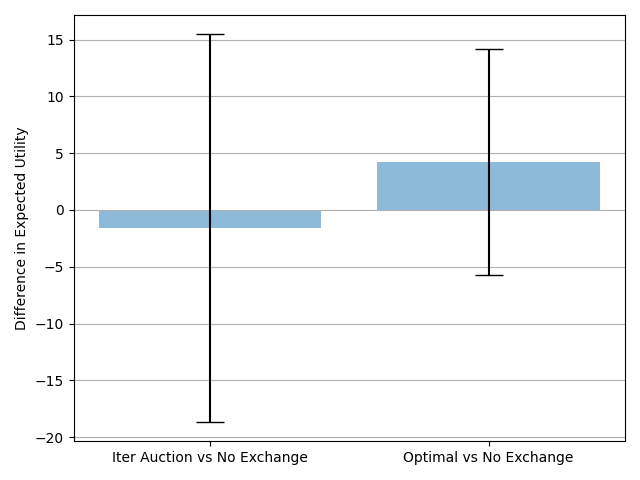
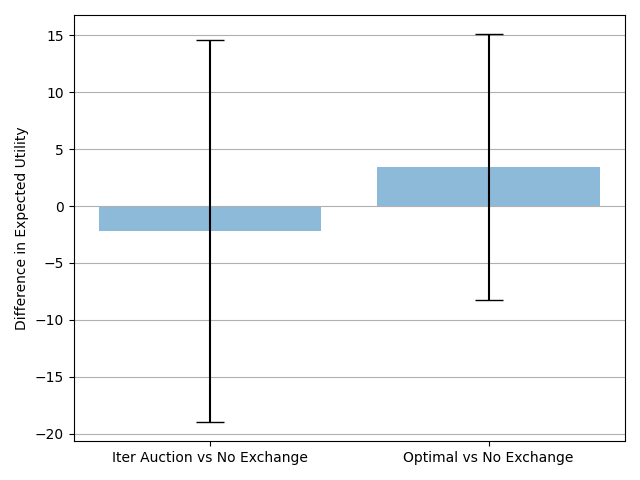
more images for sim

diff --git a/thesis/run_sim.py b/thesis/run_sim.py
@@ -6,13 +6,13 @@ from iterative_auction_expectedu import IterativeAuction
 from iterative_auction_drone import IterativeAuctionDrone
 from optimal_baseline import OptimalBaseline
 from collections import defaultdict, Counter
-from scipy import optimize
 import numpy as np
 import time
 from collections import defaultdict
 import random
 import matplotlib.pyplot as plt
 from statistics import mean, stdev
+import statistics
 import pandas as pd 
 import seaborn as sns 
 
@@ -160,6 +160,10 @@ class Simulation:
 
 
 def runSims(assignonly=False):
+	iter_auc_u = []
+	opt_u = []
+	nosell_u = []
+
 	iter_auc_costs = []
 	opt_costs = []
 	nosell_costs = []
@@ -167,60 +171,79 @@ def runSims(assignonly=False):
 	diff_opt_nosell = []
 	diff_iter_nosell = []
 
+	costdiff_iter_nosell = []
+	costdiff_opt_nosell = []
+
 	iter_total_success = []
 	iter_total_fail = []
-	failcomp_iter_nosell = []
+	opt_total_success = []
+	opt_total_fail = []
 	nosell_total_success = []
 	nosell_total_fail = []
+
 	iter_help_costs = []
+
+	successdiff_iter_nosell = []
+	successdiff_opt_nosell = []
+	faildiff_iter_nosell = []
+	faildiff_opt_nosell = []
 	
 	i = 0
-	while i < 5:
+	while i < 100:
 		print(i)
 		env = EnvGenerator(5,5,4,0.3,0.3,0.4,25)
 		env.getEnv()
 		iter_auc = IterativeAuction(env) 
-		sim = Simulation(iter_auc)
-		revealed_grid, cost_it, total_u_it, total_fail_it = sim.move_until_fail()
-		if assignonly and not sim.assignments: #if we want to compare envs with assignments but get none move to next
+		sim1 = Simulation(iter_auc)
+		revealed_grid, cost_it, total_u_it, total_fail_it = sim1.move_until_fail()
+		if assignonly and not sim1.assignments: #if we want to compare envs with assignments but get none move to next
 			continue
 		else:
 			i += 1
 
 		if revealed_grid is not None:
+			iter_auc_u.append(total_u_it)
 			iter_auc_costs.append(cost_it)
 			sellers = iter_auc.sellers
 			buyers = iter_auc.buyers
-			iter_help_costs.append(sim.help_cost)
-			iter_total_success.append(sim.total_success)
-			iter_total_fail.append(sim.total_fail)
+			iter_help_costs.append(sim1.help_cost)
+			iter_total_success.append(sim1.total_success)
+			iter_total_fail.append(sim1.total_fail)
 
 			# print("Beginning Optimal")
 			opt_assign = OptimalBaseline(env, sellers, buyers) 
-			sim = Simulation(opt_assign, revealed_grid)
-			_, cost_opt, total_u_opt, total_fail_opt = sim.move_until_fail()
+			sim2 = Simulation(opt_assign, revealed_grid)
+			_, cost_opt, total_u_opt, total_fail_opt = sim2.move_until_fail()
+			opt_u.append(total_u_opt)
 			opt_costs.append(cost_opt)
+			opt_total_success.append(sim2.total_success)
+			opt_total_fail.append(sim2.total_fail)
 			# print("End of optimal")
 			
 
 			sellers = []
 			buyers = iter_auc.agents
 			iter_auc = IterativeAuction(env, sellers, buyers) 
-			sim = Simulation(iter_auc, revealed_grid)
-			_, cost_nosell, total_u_nosell, total_fail_nosell = sim.move_until_fail()
-			
+			sim3 = Simulation(iter_auc, revealed_grid)
+			_, cost_nosell, total_u_nosell, total_fail_nosell = sim3.move_until_fail()
+			nosell_u.append(total_u_nosell)
 			nosell_costs.append(cost_nosell)
+			nosell_total_success.append(sim3.total_success)
+			nosell_total_fail.append(sim3.total_fail)
+
 			diff_iter_nosell.append(total_u_it - total_u_nosell)
 			diff_opt_nosell.append(total_u_opt - total_u_nosell)
 			
-			failcomp_iter_nosell.append(total_fail_nosell - total_fail_it)
-			nosell_total_success.append(sim.total_success)
-			nosell_total_fail.append(sim.total_fail)
+			successdiff_iter_nosell = np.subtract(np.array(iter_total_success), np.array(nosell_total_success))
+			successdiff_opt_nosell = np.subtract(np.array(opt_total_success), np.array(nosell_total_success))
+			faildiff_iter_nosell = np.subtract(np.array(iter_total_fail), np.array(nosell_total_fail))
+			faildiff_opt_nosell = np.subtract(np.array(opt_total_fail), np.array(nosell_total_fail))
 
+			costdiff_iter_nosell = np.subtract(np.array(iter_auc_costs), np.array(nosell_costs))
+			costdiff_opt_nosell = np.subtract(np.array(opt_costs), np.array(nosell_costs))
 
 	print("Diff iter nosell", diff_iter_nosell)
 	print("Diff opt nosell", diff_opt_nosell)
-	print("Fail Comp iter nosell", failcomp_iter_nosell)
 
 	print("Help Cost Iter", iter_help_costs)
 	print("Iter Auc Costs", iter_auc_costs)
@@ -228,18 +251,31 @@ def runSims(assignonly=False):
 
 	print("Iter Auc Fails", iter_total_fail)
 	print("Iter Auc Successes", iter_total_success)
+	print("Opt Fails", opt_total_fail)
+	print("Opt Successes", opt_total_success)
 	print("Nosell Fails", nosell_total_fail)
 	print("Nosell Successes", nosell_total_success)
 
+	avg_diff_success_iter_nosell = np.mean(successdiff_iter_nosell)
+	avg_diff_success_opt_nosell = np.mean(successdiff_opt_nosell)
+	print("Average Diff Success Iter Nosell", avg_diff_success_iter_nosell)
+	print("Average Diff Success Opt Nosell", avg_diff_success_opt_nosell)
+
+
 	avg_diff_iter_nosell = mean(diff_iter_nosell)
 	avg_diff_opt_nosell = mean(diff_opt_nosell)
-	avg_failcomp_iter_nosell = mean(failcomp_iter_nosell)
 	avg_iter_help_costs = mean(iter_help_costs)
 	print("Average U Diff Iter vs Nosell", avg_diff_iter_nosell)
 	print("Average U Diff Opt vs Nosell", avg_diff_opt_nosell)
-	print("Average decrease in num failures due to iterauc", avg_failcomp_iter_nosell)
-	print("Average Help Costs Iter Auc", avg_iter_help_costs)
 
+	avg_costdiff_iter_nosell = np.mean(costdiff_iter_nosell)
+	avg_costdiff_opt_nosell = np.mean(costdiff_opt_nosell)
+	print("Average Help Costs Iter Auc", avg_iter_help_costs)
+	print("Average Cost Diff Iterauc vs Nosell", avg_costdiff_iter_nosell)
+	print("Average Cost Diff Opt vs Nosell", avg_costdiff_opt_nosell)
+
+
+	#Visualize Expected U Difference
 
 	diff_iter_nosell_error = stdev(diff_iter_nosell)
 	diff_opt_nosell_error = stdev(diff_opt_nosell)
@@ -263,8 +299,102 @@ def runSims(assignonly=False):
 
 	# Save the figure and show
 	plt.tight_layout()
-	plt.savefig('test.png')
+	plt.savefig('eu-diff.png')
 	plt.show()
+
+
+	#Visualize Expected U for each setting
+
+	avg_iter_u = mean(iter_auc_u)
+	avg_opt_u = mean(opt_u)
+	avg_nosell_u = mean(nosell_u)
+
+	iter_u_error = stdev(iter_auc_u)
+	opt_u_error = stdev(opt_u)
+	nosell_u_error = stdev(nosell_u)
+
+	eu_error = [nosell_u_error, iter_u_error, opt_u_error]
+
+	labels = ["No Info Exchange", "Iterative Auction", "Optimal Exchange"]
+	x_pos = np.arange(len(labels))
+	ys = [avg_nosell_u, avg_iter_u, avg_opt_u]
+	fig, ax = plt.subplots()
+	ax.bar(x_pos, ys,
+		yerr=eu_error,
+		align='center',
+		alpha=0.5,
+		ecolor='black',
+		capsize=10)
+	ax.set_ylabel('Expected Utility Across Settings')
+	ax.set_xticks(x_pos)
+	ax.set_xticklabels(labels)
+	# ax.set_title('Coefficent of Thermal Expansion (CTE) of Three Metals')
+	ax.yaxis.grid(True)
+
+	# Save the figure and show
+	plt.tight_layout()
+	plt.savefig('eu-allsettings.png')
+	plt.show()
+
+	#Visualize Successs/Fails
+
+	success_means = (mean(nosell_total_success), mean(iter_total_success), mean(opt_total_success))
+	success_std = (stdev(nosell_total_success), stdev(iter_total_success), stdev(opt_total_success))
+	fail_means = (mean(nosell_total_fail), mean(iter_total_fail), mean(opt_total_fail))
+	fail_std = (stdev(nosell_total_fail), stdev(iter_total_fail), stdev(opt_total_fail))
+
+	# the x locations for the groups
+	ind = np.arange(3)    
+	# the width of the bars
+	width = 0.55     
+
+	p1 = plt.bar(ind, success_means, width, yerr=success_std, color='green')
+	p2 = plt.bar(ind, fail_means, width,
+	bottom=success_means, yerr=fail_std, color='red')
+
+	plt.ylabel('Fail/Success Split')
+	plt.xlabel('Setting')
+	# plt.title('Scores by group\n' + 'and gender')
+	plt.xticks(ind, ('No information exchange', 'Iterative Auction', 'Optimal Allocation'))
+	plt.yticks(np.arange(0, 5, 1))
+	plt.legend((p1[0], p2[0]), ('Successes', 'Failures'))
+
+	plt.savefig('sfcomp.png')
+	plt.show()
+
+	#Visualize Cost for each Setting
+
+	avg_iter_auc_cost = mean(iter_auc_costs)
+	avg_opt_cost = mean(opt_costs)
+	avg_nosell_cost = mean(nosell_costs)
+
+	iter_cost_error = stdev(iter_auc_costs)
+	opt_cost_error = stdev(opt_costs)
+	nosell_cost_error = stdev(nosell_costs)
+
+	eu_error = [nosell_cost_error, iter_cost_error, opt_cost_error]
+
+	labels = ["No Info Exchange", "Iterative Auction", "Optimal Exchange"]
+	x_pos = np.arange(len(labels))
+	ys = [avg_nosell_cost, avg_iter_auc_cost, avg_opt_cost]
+	fig, ax = plt.subplots()
+	ax.bar(x_pos, ys,
+		yerr=eu_error,
+		align='center',
+		alpha=0.5,
+		ecolor='black',
+		capsize=10)
+	ax.set_ylabel('Cost Across Settings')
+	ax.set_xticks(x_pos)
+	ax.set_xticklabels(labels)
+	# ax.set_title('Coefficent of Thermal Expansion (CTE) of Three Metals')
+	ax.yaxis.grid(True)
+
+	# Save the figure and show
+	plt.tight_layout()
+	plt.savefig('cost-allsettings.png')
+	plt.show()
+
 
 	# data = {"Cat": ["Iter Auction vs No Exchange", "Optimal vs No Exchange"], 
     #     "Diff": [avg_diff_iter_nosell, avg_diff_opt_nosell]} 

diff --git a/thesis/run_sim_drone.py b/thesis/run_sim_drone.py
@@ -5,7 +5,6 @@ from envgenerator import EnvGenerator
 from iterative_auction_drone import IterativeAuctionDrone
 from optimal_baseline_drone import OptimalBaselineDrone
 from collections import defaultdict, Counter
-from scipy import optimize
 import numpy as np
 import time
 from collections import defaultdict
@@ -256,29 +255,7 @@ def runSims(assignonly=False):
 
 	#Visualize number of failures
 	
-	N = 5
-	success_means = (mean(iter_total_success), mean(nosell_total_success))
-	fail_means = (mean(iter_total_fail), mean(nosell_total_fail))
-	successStd = (stdev(iter_total_success), stdev(nosell_total_success))
-	failStd = (stdev(iter_total_fail), stdev(nosell_total_fail))
-
-	# the x locations for the groups
-	ind = np.arange(2)    
-	# the width of the bars
-	width = 0.35      
-
-	p1 = plt.bar(ind, success_means, width, yerr=successStd, color='red')
-	p2 = plt.bar(ind, fail_means, width,
-	bottom=success_means, yerr=failStd, color='green')
-
-	plt.ylabel('Fail/Success Split')
-	plt.xlabel('Setting')
-	# plt.title('Scores by group\n' + 'and gender')
-	plt.xticks(ind, ('Group1', 'Group2', 'Group3', 'Group4', 'Group5'))
-	plt.yticks(np.arange(0, 81, 10))
-	plt.legend((p1[0], p2[0]), ('Men', 'Women'))
-
-	plt.show()
+	
 
 	# data = {"Cat": ["Iter Auction vs No Exchange", "Optimal vs No Exchange"], 
     #     "Diff": [avg_diff_iter_nosell, avg_diff_opt_nosell]} 
